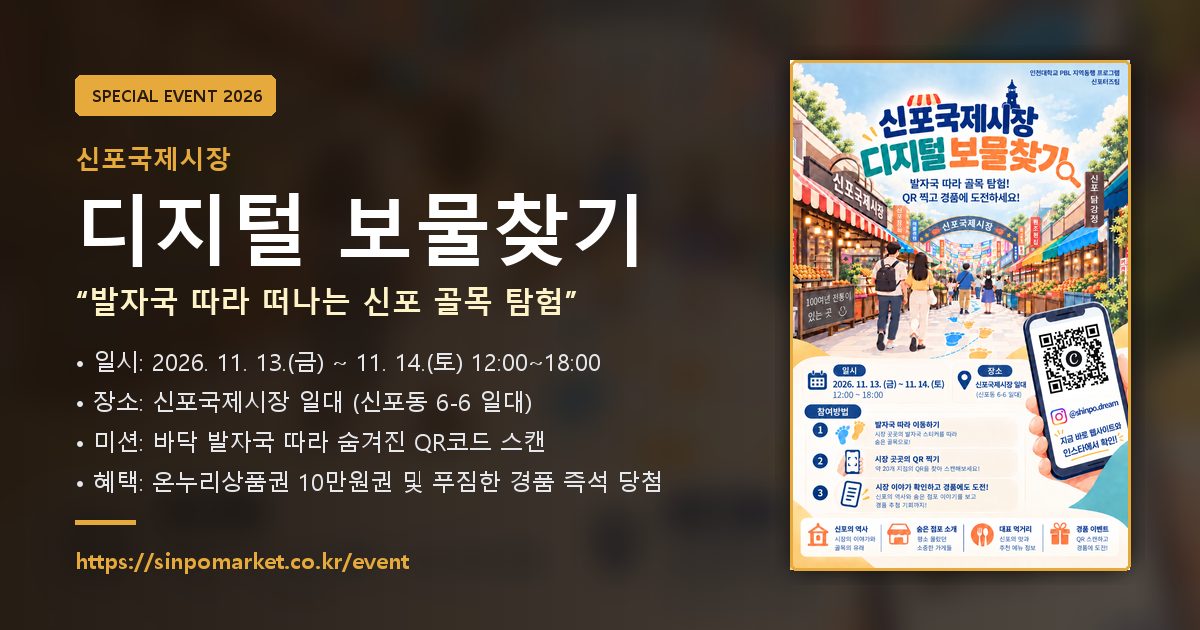
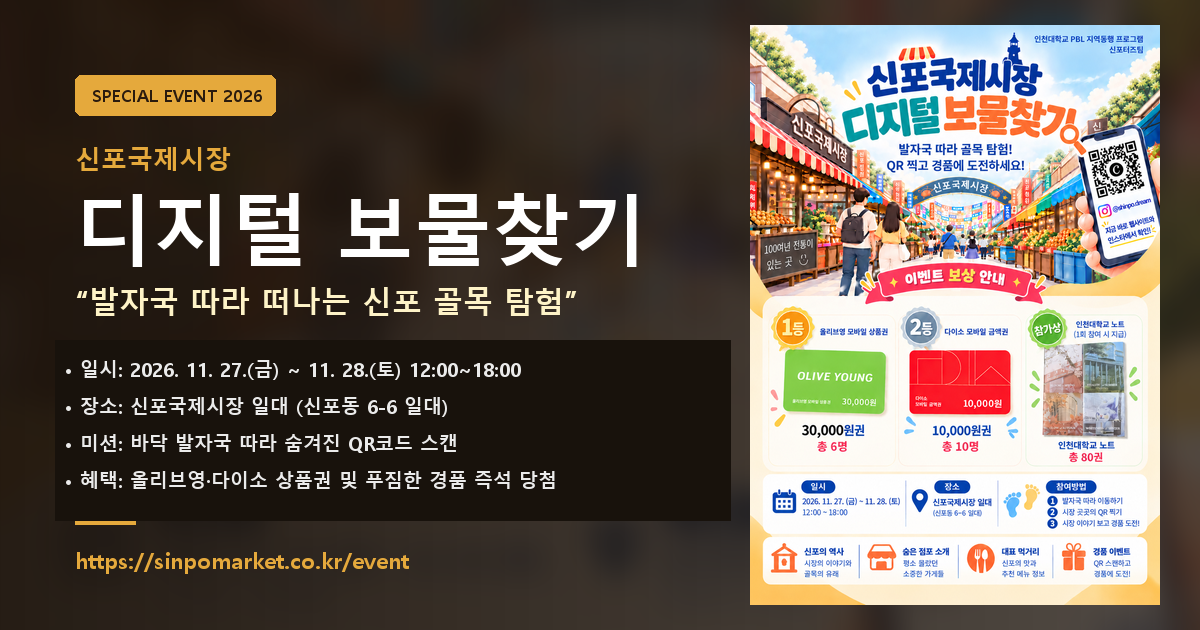
feat: 공식 포스터(newsinpoposter.png) 전면 노출, 확대 모달 및 썸네일 적용

diff --git a/src/components/sections/EventHero.tsx b/src/components/sections/EventHero.tsx
@@ -1,11 +1,28 @@
-import React from 'react';
+"use client";
+
+import React, { useState } from 'react';
 import Link from 'next/link';
-import { Calendar, MapPin, Camera, Footprints, Sparkles, ChevronDown } from 'lucide-react';
+import {
+  Calendar,
+  MapPin,
+  Camera,
+  Footprints,
+  Sparkles,
+  ChevronDown,
+  FileImage,
+  Map as MapIcon,
+  ZoomIn,
+  X,
+  Download,
+} from 'lucide-react';
 import { FESTIVAL_INFO } from '../../data/marketData';
 import { EventCountdown } from './EventCountdown';
 import { EventTreasureMap } from './EventTreasureMap';
 
 export const EventHero: React.FC = () => {
+  const [viewMode, setViewMode] = useState<'poster' | 'map'>('poster');
+  const [isPosterModalOpen, setIsPosterModalOpen] = useState(false);
+
   return (
     <section
       id="about"
@@ -84,16 +101,27 @@ export const EventHero: React.FC = () => {
           </div>
 
           <div className="flex flex-wrap items-center gap-3 pt-1">
+            <button
+              type="button"
+              onClick={() => {
+                setViewMode('poster');
+                setIsPosterModalOpen(true);
+              }}
+              className="flex items-center gap-2 rounded bg-[#E5A93C] px-5 py-3 text-sm font-black text-[#2a1b0e] shadow-lg shadow-[#E5A93C]/20 transition-colors hover:bg-[#F3C15F]"
+            >
+              <FileImage className="h-4 w-4" />
+              공식 포스터 크게 보기
+            </button>
             <a
               href="#how-to-play"
-              className="flex items-center gap-2 rounded bg-[#E5A93C] px-6 py-3 text-sm font-black text-[#2a1b0e] shadow-lg shadow-[#E5A93C]/20 transition-colors hover:bg-[#F3C15F]"
+              className="flex items-center gap-2 rounded border border-[#E5A93C]/60 bg-[#E5A93C]/10 px-5 py-3 text-sm font-bold text-amber-200 transition-colors hover:bg-[#E5A93C]/20"
             >
-              <Footprints className="h-4 w-4" />
+              <Footprints className="h-4 w-4 text-[#E5A93C]" />
               참여 방법 보기
             </a>
             <a
               href="#rewards"
-              className="flex items-center gap-2 rounded border border-[#00ACC1] px-6 py-3 text-sm font-bold text-[#00ACC1] transition-colors hover:bg-[#00ACC1] hover:text-white"
+              className="flex items-center gap-2 rounded border border-[#00ACC1] px-5 py-3 text-sm font-bold text-[#00ACC1] transition-colors hover:bg-[#00ACC1] hover:text-white"
             >
               <Sparkles className="h-4 w-4" />
               경품 &amp; 수령 안내
@@ -107,9 +135,129 @@ export const EventHero: React.FC = () => {
           </div>
         </div>
 
-        {/* Right: treasure map */}
-        <EventTreasureMap />
+        {/* Right: Interactive Switcher between Official Poster and Treasure Map */}
+        <div className="flex flex-col items-center">
+          {/* View mode toggle pills */}
+          <div className="mb-4 inline-flex items-center rounded-full border border-white/15 bg-black/40 p-1 backdrop-blur-md">
+            <button
+              type="button"
+              onClick={() => setViewMode('poster')}
+              className={`flex items-center gap-1.5 rounded-full px-4 py-1.5 text-xs font-black transition-all ${
+                viewMode === 'poster'
+                  ? 'bg-[#E5A93C] text-[#2a1b0e] shadow-md'
+                  : 'text-gray-300 hover:text-white'
+              }`}
+            >
+              <FileImage className="h-3.5 w-3.5" />
+              공식 행사 포스터
+            </button>
+            <button
+              type="button"
+              onClick={() => setViewMode('map')}
+              className={`flex items-center gap-1.5 rounded-full px-4 py-1.5 text-xs font-black transition-all ${
+                viewMode === 'map'
+                  ? 'bg-[#E5A93C] text-[#2a1b0e] shadow-md'
+                  : 'text-gray-300 hover:text-white'
+              }`}
+            >
+              <MapIcon className="h-3.5 w-3.5" />
+              골목 보물지도
+            </button>
+          </div>
+
+          {/* Poster or Map Card */}
+          {viewMode === 'poster' ? (
+            <div className="relative mx-auto w-full max-w-[400px]">
+              {/* Outer gold glow */}
+              <div className="absolute -inset-4 rounded-3xl bg-gradient-to-tr from-[#E5A93C]/30 via-[#8C6239]/20 to-[#00ACC1]/25 blur-xl" />
+
+              <div
+                onClick={() => setIsPosterModalOpen(true)}
+                className="group relative cursor-pointer overflow-hidden rounded-2xl border-2 border-[#E5A93C]/60 bg-[#1c130b] shadow-2xl transition-all duration-300 hover:scale-[1.01] hover:border-[#E5A93C]"
+              >
+                <img
+                  src="/sinpoposter.png"
+                  alt="신포국제시장 디지털 보물찾기 행사 공식 포스터"
+                  className="h-auto w-full object-cover transition-transform duration-500 group-hover:scale-105"
+                />
+
+                {/* Hover overlay hint */}
+                <div className="absolute inset-0 flex flex-col items-center justify-center bg-black/45 p-4 text-center opacity-0 backdrop-blur-xs transition-opacity duration-200 group-hover:opacity-100">
+                  <span className="inline-flex items-center gap-2 rounded-full bg-[#E5A93C] px-4 py-2 text-xs font-black text-[#2a1b0e] shadow-xl">
+                    <ZoomIn className="h-4 w-4" />
+                    포스터 크게 보기
+                  </span>
+                  <span className="mt-2 text-[11px] text-gray-200">
+                    클릭하면 고해상도 원본으로 확인할 수 있습니다
+                  </span>
+                </div>
+
+                {/* Bottom badge */}
+                <div className="absolute bottom-3 left-3 right-3 flex items-center justify-between rounded-lg bg-black/70 px-3 py-1.5 text-[11px] font-bold text-amber-200 backdrop-blur-sm">
+                  <span>공식 행사 포스터 (2026.11.27~28)</span>
+                  <span className="flex items-center gap-1 text-[10px] text-gray-300">
+                    <ZoomIn className="h-3 w-3 text-[#E5A93C]" />
+                    클릭 확대
+                  </span>
+                </div>
+              </div>
+            </div>
+          ) : (
+            <EventTreasureMap />
+          )}
+        </div>
       </div>
+
+      {/* Poster Lightbox / Modal */}
+      {isPosterModalOpen && (
+        <div className="fixed inset-0 z-50 flex items-center justify-center p-4 sm:p-6">
+          <div
+            className="fixed inset-0 bg-black/85 backdrop-blur-md transition-opacity"
+            onClick={() => setIsPosterModalOpen(false)}
+          />
+
+          <div className="relative z-10 flex max-h-[92vh] max-w-2xl flex-col overflow-hidden rounded-2xl bg-[#1c130b] border border-[#E5A93C]/40 shadow-2xl">
+            {/* Modal Header */}
+            <div className="flex items-center justify-between border-b border-white/10 bg-black/60 px-5 py-3 text-white">
+              <div className="flex items-center gap-2">
+                <span className="rounded bg-[#E5A93C] px-2 py-0.5 text-[10px] font-black text-[#2a1b0e]">
+                  OFFICIAL POSTER
+                </span>
+                <span className="text-xs font-bold text-amber-100 sm:text-sm">
+                  신포국제시장 디지털 보물찾기 공식 포스터
+                </span>
+              </div>
+              <div className="flex items-center gap-2">
+                <a
+                  href="/sinpoposter.png"
+                  download="신포국제시장_디지털보물찾기_포스터.png"
+                  className="rounded p-1.5 text-gray-300 transition-colors hover:bg-white/10 hover:text-white"
+                  title="포스터 원본 다운로드"
+                >
+                  <Download className="h-4 w-4" />
+                </a>
+                <button
+                  type="button"
+                  onClick={() => setIsPosterModalOpen(false)}
+                  className="rounded p-1.5 text-gray-300 transition-colors hover:bg-white/10 hover:text-white"
+                  aria-label="닫기"
+                >
+                  <X className="h-5 w-5" />
+                </button>
+              </div>
+            </div>
+
+            {/* Modal Body: Scrollable Image */}
+            <div className="overflow-y-auto p-4 flex items-center justify-center bg-black/40">
+              <img
+                src="/sinpoposter.png"
+                alt="신포국제시장 디지털 보물찾기 행사 공식 포스터 고해상도 원본"
+                className="max-h-[78vh] w-auto rounded-lg shadow-xl"
+              />
+            </div>
+          </div>
+        </div>
+      )}
 
       <a
         href="#how-to-play"

diff --git a/src/components/sections/EventBanner.tsx b/src/components/sections/EventBanner.tsx
@@ -31,6 +31,24 @@ export const EventBanner: React.FC = () => {
               </span>
             </div>
           </div>
+          {/* Poster preview thumbnail */}
+          <Link
+            href="/event"
+            className="group relative hidden lg:block shrink-0 overflow-hidden rounded-lg border-2 border-white/30 shadow-md transition-transform hover:scale-105"
+            title="신포국제시장 디지털 보물찾기 공식 포스터"
+          >
+            <img
+              src="/sinpoposter.png"
+              alt="신포국제시장 디지털 보물찾기 공식 포스터"
+              className="h-36 w-auto object-cover"
+            />
+            <div className="absolute inset-0 bg-black/30 opacity-0 transition-opacity group-hover:opacity-100 flex items-center justify-center">
+              <span className="rounded bg-black/75 px-2 py-1 text-[10px] font-bold text-amber-200">
+                포스터 보기
+              </span>
+            </div>
+          </Link>
+
           <Link
             href="/event"
             className="shrink-0 px-7 py-3.5 bg-white text-gray-900 font-bold text-sm rounded hover:bg-gray-100 transition-colors flex items-center gap-2 shadow-sm"

diff --git a/src/data/marketData.ts b/src/data/marketData.ts
@@ -166,7 +166,7 @@ export const ANNOUNCEMENT_ITEMS: AnnouncementItem[] = [
     author: "sinpomarket",
     category: "행사공지",
     date: "2026. 10. 20",
-    imageUrl: "https://images.unsplash.com/photo-1517457373958-b7bdd4587205?auto=format&fit=crop&w=600&q=80",
+    imageUrl: "/sinpoposter.png",
     summary: "스마트폰 카메라로 시장 바닥 발자국 스티커를 따라 20개의 QR코드를 찾고 올리브영 3만원권, 다이소 1만원권, 인천대학교 기념 노트 등 푸짐한 경품을 수령하세요.",
     tag: "디지털보물찾기",
   },
